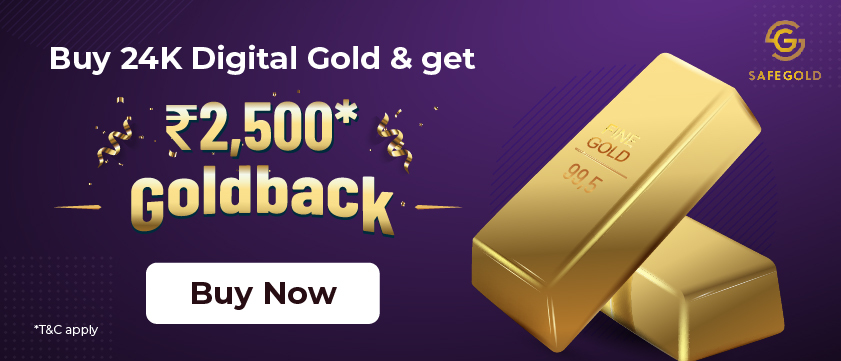
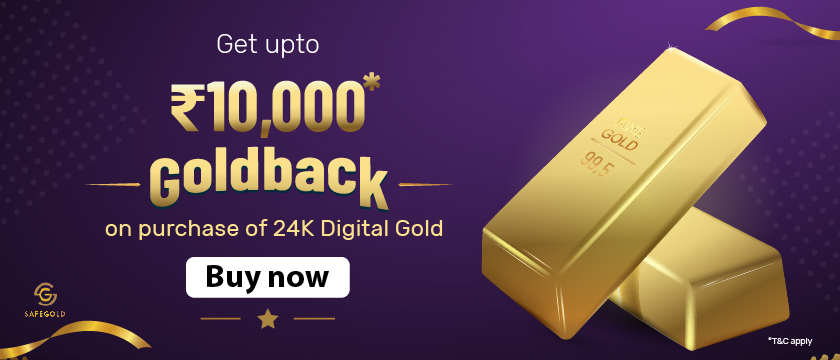
changed terms and conditions for august

diff --git a/react_webviews/src/gold/components/mygold/landing.js b/react_webviews/src/gold/components/mygold/landing.js
@@ -132,6 +132,23 @@ class GoldSummary extends Component {
       "In case of any customer query or dispute, Finwizard Technology Private Limited reserves the right to resolve the same on the basis of the terms and conditions of the offer at its sole discretion."
     ]
 
+    var gold_offer_terms_safegold_august = [
+      'Offer is only valid till  23:59 hrs 17th August 2020.',
+      'For a customer to be valid for the offer (s)he should purchase gold worth at least 2gm during the offer period.',
+      'This offer can be availed only once ( per device, per user, per account) during the offer period. Highest Goldback applicable will be given to the customer.',
+      'Purchase can be done in a single transaction or multiple transaction but the total gold should be greater than at least 2gm.',
+      'Goldback will be allotted as per below mentioned criteria as per the price of Gold on the allocation date as mentioned below:',
+      [
+        'Gold purchased 2gm to 4gm : Rs 750/- for first 50 customers',
+        'Gold purchased 5 gm to 9gm : Rs 1250/- for first 50 customers',
+        'Gold purchased greater than 10gm : Rs 5000/- for first 10 customers',
+        'Gold purchased greater than 20 gm : Rs 10000/- for first 10 customers'
+      ],
+      "Gold-back amounts for lucky winners will be credited to the customer's Safegold account by 30th August 2020.",
+      'Any conditions which are not explicitly covered would be at the sole discretion of Finwizard Technology Private Limited. The decision of Fisdom in this regard will be final and the company has the right to change terms and conditions at any time.',
+      'In case of any customer query or dispute, Finwizard Technology Private Limited reserves the right to resolve the same on the basis of the terms and conditions of the offer at its sole discretion.',
+    ]
+
     let offerImageDataBase = [
       {
         src: type === 'fisdom' ? goldOfferImageFisdom : goldOfferImageMyway,
@@ -169,8 +186,8 @@ class GoldSummary extends Component {
       {
         src: type === 'fisdom' ? goldOfferSafegoldFisdom : goldOfferSafegoldMyway,
         link: '',
-        terms: gold_offer_terms_safegold_july,
-        key: 'safegold_july',
+        terms: gold_offer_terms_safegold_august,
+        key: 'safegold_august',
         canShow: true
       },
     ];
@@ -295,7 +312,7 @@ class GoldSummary extends Component {
     this.sendEvents('next', 'marketing_banner', index);
 
     if (offer.key === '5buy' || offer.key === '50delivery' || 
-    offer.key === 'mmtc_offer' || offer.key === 'safegold_july') {
+    offer.key === 'mmtc_offer' || offer.key === 'safegold_august') {
       this.setState({
         openDialogOffer: true,
         selectedIndexOffer: index
@@ -309,7 +326,13 @@ class GoldSummary extends Component {
   renderOfferTerms(props, index) {
     return (
       <span className="gold-offer-terms" key={index}>
-        {index + 1}. {props}
+        {index !== 5 ? `${index + 1}. ${props}` : 
+          <ul>
+            {props.map(offers => (
+              <li>{offers}</li>
+            ))}
+          </ul>
+        }
       </span>
     )
   }
